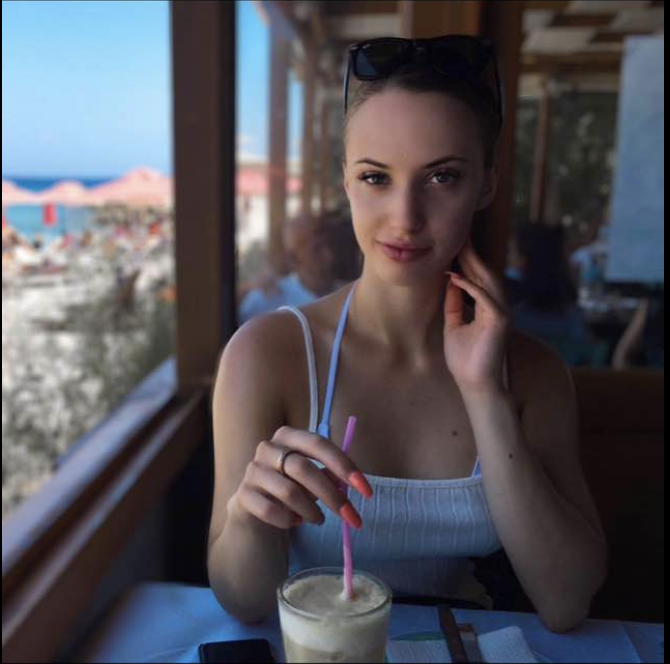
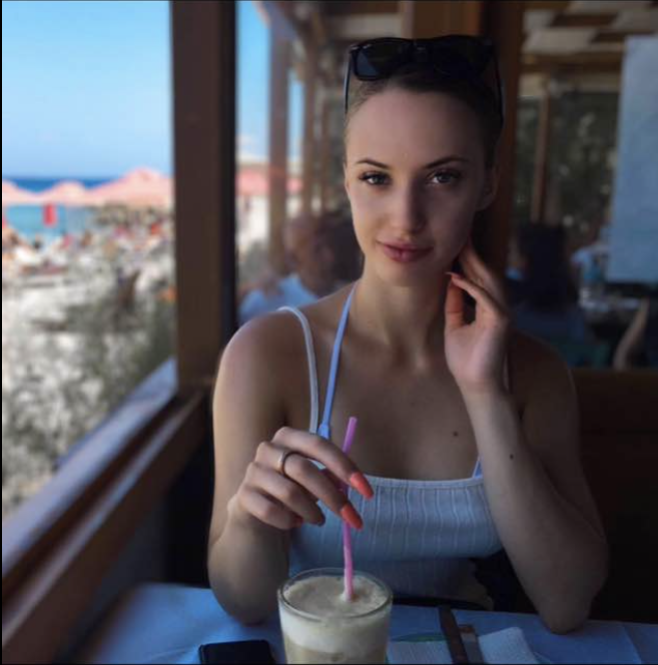
Final changes for dark theme

diff --git a/themes/kmom04/css/style-dark.min.css b/themes/kmom04/css/style-dark.min.css
@@ -10,4 +10,4 @@
  */@font-face{font-family:"Font Awesome 5 Free";font-style:normal;font-weight:900;font-display:block;src:url("../../shared/fontawesome/webfonts/fa-solid-900.eot");src:url("../../shared/fontawesome/webfonts/fa-solid-900.eot?#iefix") format("embedded-opentype"),url("../../shared/fontawesome/webfonts/fa-solid-900.woff2") format("woff2"),url("../../shared/fontawesome/webfonts/fa-solid-900.woff") format("woff"),url("../../shared/fontawesome/webfonts/fa-solid-900.ttf") format("truetype"),url("../../shared/fontawesome/webfonts/fa-solid-900.svg#fontawesome") format("svg")}.fa,.fas{font-family:"Font Awesome 5 Free";font-weight:900}/*!
  * Font Awesome Free 5.15.4 by @fontawesome - https://fontawesome.com
  * License - https://fontawesome.com/license/free (Icons: CC BY 4.0, Fonts: SIL OFL 1.1, Code: MIT License)
- */@font-face{font-family:"Font Awesome 5 Free";font-style:normal;font-weight:400;font-display:block;src:url("../../shared/fontawesome/webfonts/fa-regular-400.eot");src:url("../../shared/fontawesome/webfonts/fa-regular-400.eot?#iefix") format("embedded-opentype"),url("../../shared/fontawesome/webfonts/fa-regular-400.woff2") format("woff2"),url("../../shared/fontawesome/webfonts/fa-regular-400.woff") format("woff"),url("../../shared/fontawesome/webfonts/fa-regular-400.ttf") format("truetype"),url("../../shared/fontawesome/webfonts/fa-regular-400.svg#fontawesome") format("svg")}.far{font-family:"Font Awesome 5 Free";font-weight:400}/*! normalize.css v8.0.1 | MIT License | github.com/necolas/normalize.css */html{line-height:1.15;-webkit-text-size-adjust:100%}body{margin:0}main{display:block}h1{font-size:2em;margin:.67em 0}hr{box-sizing:content-box;height:0;overflow:visible}pre{font-family:monospace,monospace;font-size:1em}a{background-color:transparent}abbr[title]{border-bottom:none;text-decoration:underline;text-decoration:underline dotted}b,strong{font-weight:bolder}code,kbd,samp{font-family:monospace,monospace;font-size:1em}small{font-size:80%}sub,sup{font-size:75%;line-height:0;position:relative;vertical-align:baseline}sub{bottom:-0.25em}sup{top:-0.5em}img{border-style:none}button,input,optgroup,select,textarea{font-family:inherit;font-size:100%;line-height:1.15;margin:0}button,input{overflow:visible}button,select{text-transform:none}button,[type=button],[type=reset],[type=submit]{-webkit-appearance:button}button::-moz-focus-inner,[type=button]::-moz-focus-inner,[type=reset]::-moz-focus-inner,[type=submit]::-moz-focus-inner{border-style:none;padding:0}button:-moz-focusring,[type=button]:-moz-focusring,[type=reset]:-moz-focusring,[type=submit]:-moz-focusring{outline:1px dotted ButtonText}fieldset{padding:.35em .75em .625em}legend{box-sizing:border-box;color:inherit;display:table;max-width:100%;padding:0;white-space:normal}progress{vertical-align:baseline}textarea{overflow:auto}[type=checkbox],[type=radio]{box-sizing:border-box;padding:0}[type=number]::-webkit-inner-spin-button,[type=number]::-webkit-outer-spin-button{height:auto}[type=search]{-webkit-appearance:textfield;outline-offset:-2px}[type=search]::-webkit-search-decoration{-webkit-appearance:none}::-webkit-file-upload-button{-webkit-appearance:button;font:inherit}details{display:block}summary{display:list-item}template{display:none}[hidden]{display:none}body{line-height:1.4em;font-family:"Noto Sans",sans-serif;font-weight:normal}p{font-weight:normal;color:#fff;font-size:1.4em;font-family:"Noto Sans",sans-serif;line-height:1.4;margin-bottom:1.96rem;letter-spacing:1px}html,body{height:100%;font-size:100%}body{background-color:#333;display:flex;flex-direction:column}.main{background-color:#333;flex:1 0 auto;width:64em;margin:1.96rem auto}.footer{display:flex;flex-direction:row;padding:2rem;justify-content:space-between;align-items:center;background-color:#2a2a2a;color:#c9c7c7}.social a{text-decoration:none;font-size:3rem;color:#c9c7c7}.footer p{color:#c9c7c7}.header{display:flex;flex-direction:row;padding:2rem;justify-content:space-between;align-items:center;background-color:#dcb685}.site-header{display:flex;flex-direction:row;justify-content:space-between;align-items:center}.title a{text-decoration:none}.title h1{color:rgba(146,100,67,.8039215686)}img{max-width:100%;display:block}.profilbild{border-radius:50%;width:300px;max-width:100%;height:300px;max-height:100%;display:block}blockquote{font-style:italic;margin-left:1em;padding-left:1em;border-left:.5em solid #f5f5f5}code{margin:0 .1em;padding:.1em .2em;border:1px solid #ccc;border-radius:.3em;background:#f5f5f5;font-family:monospace;font-size:.85rem;line-height:1.9824}pre{padding:0 1em;border:1px solid #ccc;border-radius:.3em;background:#f5f5f5}pre code{display:block;margin:0;padding:1.1111em 0;border:0 none;background:rgba(0,0,0,0);overflow-x:auto;line-height:1.4}.landing-page{display:grid;gap:1.96rem 1.96rem;margin-bottom:1.96rem}.landing-page h1{grid-column:span 3;justify-self:center}.landing-page a{text-decoration:none;color:#fff}.tech-box{grid-column:span 1;display:flex;flex-direction:column;align-items:center;border:1px solid #ccc;padding:1.96rem}.tech-box.big{grid-column:span 3}.tech-box:hover{box-shadow:10px 10px 5px 0 rgba(0,0,0,.2)}.technology{display:flex;flex-direction:row;justify-content:center;align-items:start}.technology .article{width:60%}.technology .menu{width:30%}
+ */@font-face{font-family:"Font Awesome 5 Free";font-style:normal;font-weight:400;font-display:block;src:url("../../shared/fontawesome/webfonts/fa-regular-400.eot");src:url("../../shared/fontawesome/webfonts/fa-regular-400.eot?#iefix") format("embedded-opentype"),url("../../shared/fontawesome/webfonts/fa-regular-400.woff2") format("woff2"),url("../../shared/fontawesome/webfonts/fa-regular-400.woff") format("woff"),url("../../shared/fontawesome/webfonts/fa-regular-400.ttf") format("truetype"),url("../../shared/fontawesome/webfonts/fa-regular-400.svg#fontawesome") format("svg")}.far{font-family:"Font Awesome 5 Free";font-weight:400}/*! normalize.css v8.0.1 | MIT License | github.com/necolas/normalize.css */html{line-height:1.15;-webkit-text-size-adjust:100%}body{margin:0}main{display:block}h1{font-size:2em;margin:.67em 0}hr{box-sizing:content-box;height:0;overflow:visible}pre{font-family:monospace,monospace;font-size:1em}a{background-color:transparent}abbr[title]{border-bottom:none;text-decoration:underline;text-decoration:underline dotted}b,strong{font-weight:bolder}code,kbd,samp{font-family:monospace,monospace;font-size:1em}small{font-size:80%}sub,sup{font-size:75%;line-height:0;position:relative;vertical-align:baseline}sub{bottom:-0.25em}sup{top:-0.5em}img{border-style:none}button,input,optgroup,select,textarea{font-family:inherit;font-size:100%;line-height:1.15;margin:0}button,input{overflow:visible}button,select{text-transform:none}button,[type=button],[type=reset],[type=submit]{-webkit-appearance:button}button::-moz-focus-inner,[type=button]::-moz-focus-inner,[type=reset]::-moz-focus-inner,[type=submit]::-moz-focus-inner{border-style:none;padding:0}button:-moz-focusring,[type=button]:-moz-focusring,[type=reset]:-moz-focusring,[type=submit]:-moz-focusring{outline:1px dotted ButtonText}fieldset{padding:.35em .75em .625em}legend{box-sizing:border-box;color:inherit;display:table;max-width:100%;padding:0;white-space:normal}progress{vertical-align:baseline}textarea{overflow:auto}[type=checkbox],[type=radio]{box-sizing:border-box;padding:0}[type=number]::-webkit-inner-spin-button,[type=number]::-webkit-outer-spin-button{height:auto}[type=search]{-webkit-appearance:textfield;outline-offset:-2px}[type=search]::-webkit-search-decoration{-webkit-appearance:none}::-webkit-file-upload-button{-webkit-appearance:button;font:inherit}details{display:block}summary{display:list-item}template{display:none}[hidden]{display:none}body{line-height:1.4em;font-family:"Noto Sans",sans-serif;font-weight:normal}p{font-weight:normal;color:#f8f8ff;font-size:1.4em;font-family:"Noto Sans",sans-serif;line-height:1.4;margin-bottom:1.96rem;letter-spacing:1px}h2,h3{color:#f8f8ff;font-style:italic}html,body{height:100%;font-size:100%}body{background-color:#272727;display:flex;flex-direction:column}.main{background-color:#272727;flex:1 0 auto;width:64em;margin:1.96rem auto}.footer{display:flex;flex-direction:row;padding:2rem;justify-content:space-between;align-items:center;background-color:#2a2a2a;color:#caa78d}.social a{text-decoration:none;font-size:3rem;color:#caa78d}.footer p{color:#caa78d}.header{display:flex;flex-direction:row;padding:2rem;justify-content:space-between;align-items:center;background-color:#333}.site-header{display:flex;flex-direction:row;justify-content:space-between;align-items:center}.title a{text-decoration:none}.title h1{color:rgba(146,100,67,.8039215686)}h1{color:#f8f8ff}.nav a{text-decoration:none;font-size:22px;color:#f8f8ff}.nav a:hover{text-decoration:none;color:#caa78d}img{max-width:100%;display:block;filter:grayscale(60%) contrast(1.2)}.profilbild{border-radius:50%;width:300px;max-width:100%;height:300px;max-height:100%;display:block;filter:grayscale(50%) contrast(1.2)}blockquote{font-style:italic;margin-left:1em;padding-left:1em;border-left:.5em solid #f5f5f5}code{margin:0 .1em;padding:.1em .2em;border:1px solid #ccc;border-radius:.3em;background:#f5f5f5;font-family:monospace;font-size:.85rem;line-height:1.9824}pre{padding:0 1em;border:1px solid #ccc;border-radius:.3em;background:#f5f5f5}pre code{display:block;margin:0;padding:1.1111em 0;border:0 none;background:rgba(0,0,0,0);overflow-x:auto;line-height:1.4}.landing-page{display:grid;gap:1.96rem 1.96rem;margin-bottom:1.96rem}.landing-page h1{grid-column:span 3;justify-self:center}.landing-page a{text-decoration:none;color:#f8f8ff}.tech-box{grid-column:span 1;display:flex;flex-direction:column;align-items:center;border:1px solid #ccc;padding:1.96rem}.tech-box.big{grid-column:span 3}.tech-box:hover{box-shadow:10px 10px 5px 0 rgba(0,0,0,.2)}.technology{display:flex;flex-direction:row;justify-content:center;align-items:start}.technology .article{width:60%}.technology .menu{width:30%}.menu a{text-decoration:none;color:#f8f8ff}.menu a:hover{color:#caa78d}

diff --git a/themes/kmom04/css/style.min.css b/themes/kmom04/css/style.min.css
@@ -10,4 +10,4 @@
  */@font-face{font-family:"Font Awesome 5 Free";font-style:normal;font-weight:900;font-display:block;src:url("../../shared/fontawesome/webfonts/fa-solid-900.eot");src:url("../../shared/fontawesome/webfonts/fa-solid-900.eot?#iefix") format("embedded-opentype"),url("../../shared/fontawesome/webfonts/fa-solid-900.woff2") format("woff2"),url("../../shared/fontawesome/webfonts/fa-solid-900.woff") format("woff"),url("../../shared/fontawesome/webfonts/fa-solid-900.ttf") format("truetype"),url("../../shared/fontawesome/webfonts/fa-solid-900.svg#fontawesome") format("svg")}.fa,.fas{font-family:"Font Awesome 5 Free";font-weight:900}/*!
  * Font Awesome Free 5.15.4 by @fontawesome - https://fontawesome.com
  * License - https://fontawesome.com/license/free (Icons: CC BY 4.0, Fonts: SIL OFL 1.1, Code: MIT License)
- */@font-face{font-family:"Font Awesome 5 Free";font-style:normal;font-weight:400;font-display:block;src:url("../../shared/fontawesome/webfonts/fa-regular-400.eot");src:url("../../shared/fontawesome/webfonts/fa-regular-400.eot?#iefix") format("embedded-opentype"),url("../../shared/fontawesome/webfonts/fa-regular-400.woff2") format("woff2"),url("../../shared/fontawesome/webfonts/fa-regular-400.woff") format("woff"),url("../../shared/fontawesome/webfonts/fa-regular-400.ttf") format("truetype"),url("../../shared/fontawesome/webfonts/fa-regular-400.svg#fontawesome") format("svg")}.far{font-family:"Font Awesome 5 Free";font-weight:400}/*! normalize.css v8.0.1 | MIT License | github.com/necolas/normalize.css */html{line-height:1.15;-webkit-text-size-adjust:100%}body{margin:0}main{display:block}h1{font-size:2em;margin:.67em 0}hr{box-sizing:content-box;height:0;overflow:visible}pre{font-family:monospace,monospace;font-size:1em}a{background-color:transparent}abbr[title]{border-bottom:none;text-decoration:underline;text-decoration:underline dotted}b,strong{font-weight:bolder}code,kbd,samp{font-family:monospace,monospace;font-size:1em}small{font-size:80%}sub,sup{font-size:75%;line-height:0;position:relative;vertical-align:baseline}sub{bottom:-0.25em}sup{top:-0.5em}img{border-style:none}button,input,optgroup,select,textarea{font-family:inherit;font-size:100%;line-height:1.15;margin:0}button,input{overflow:visible}button,select{text-transform:none}button,[type=button],[type=reset],[type=submit]{-webkit-appearance:button}button::-moz-focus-inner,[type=button]::-moz-focus-inner,[type=reset]::-moz-focus-inner,[type=submit]::-moz-focus-inner{border-style:none;padding:0}button:-moz-focusring,[type=button]:-moz-focusring,[type=reset]:-moz-focusring,[type=submit]:-moz-focusring{outline:1px dotted ButtonText}fieldset{padding:.35em .75em .625em}legend{box-sizing:border-box;color:inherit;display:table;max-width:100%;padding:0;white-space:normal}progress{vertical-align:baseline}textarea{overflow:auto}[type=checkbox],[type=radio]{box-sizing:border-box;padding:0}[type=number]::-webkit-inner-spin-button,[type=number]::-webkit-outer-spin-button{height:auto}[type=search]{-webkit-appearance:textfield;outline-offset:-2px}[type=search]::-webkit-search-decoration{-webkit-appearance:none}::-webkit-file-upload-button{-webkit-appearance:button;font:inherit}details{display:block}summary{display:list-item}template{display:none}[hidden]{display:none}body{line-height:1.4em;font-family:"Noto Sans",sans-serif;font-weight:normal}p{font-weight:normal;color:#333;font-size:1.4em;font-family:"Noto Sans",sans-serif;line-height:1.4;margin-bottom:1.96rem;letter-spacing:1px}html,body{height:100%;font-size:100%}body{background-color:#fff;display:flex;flex-direction:column}.main{background-color:#fff;flex:1 0 auto;width:64em;margin:1.96rem auto}.footer{display:flex;flex-direction:row;padding:2rem;justify-content:space-between;align-items:center;background-color:#2a2a2a;color:#c9c7c7}.social a{text-decoration:none;font-size:3rem;color:#c9c7c7}.footer p{color:#c9c7c7}.header{display:flex;flex-direction:row;padding:2rem;justify-content:space-between;align-items:center;background-color:#dcb685}.site-header{display:flex;flex-direction:row;justify-content:space-between;align-items:center}.title a{text-decoration:none}.title h1{color:#7a4f38}img{max-width:100%;display:block}.profilbild{border-radius:50%;width:300px;max-width:100%;height:300px;max-height:100%;display:block}blockquote{font-style:italic;margin-left:1em;padding-left:1em;border-left:.5em solid #f5f5f5}code{margin:0 .1em;padding:.1em .2em;border:1px solid #ccc;border-radius:.3em;background:#f5f5f5;font-family:monospace;font-size:.85rem;line-height:1.9824}pre{padding:0 1em;border:1px solid #ccc;border-radius:.3em;background:#f5f5f5}pre code{display:block;margin:0;padding:1.1111em 0;border:0 none;background:rgba(0,0,0,0);overflow-x:auto;line-height:1.4}.landing-page{display:grid;gap:1.96rem 1.96rem;margin-bottom:1.96rem}.landing-page h1{grid-column:span 3;justify-self:center}.landing-page a{text-decoration:none;color:#333}.tech-box{grid-column:span 1;display:flex;flex-direction:column;align-items:center;border:1px solid #ccc;padding:1.96rem}.tech-box.big{grid-column:span 3}.tech-box:hover{box-shadow:10px 10px 5px 0 rgba(0,0,0,.2)}.technology{display:flex;flex-direction:row;justify-content:center;align-items:start}.technology .article{width:60%}.technology .menu{width:30%}
+ */@font-face{font-family:"Font Awesome 5 Free";font-style:normal;font-weight:400;font-display:block;src:url("../../shared/fontawesome/webfonts/fa-regular-400.eot");src:url("../../shared/fontawesome/webfonts/fa-regular-400.eot?#iefix") format("embedded-opentype"),url("../../shared/fontawesome/webfonts/fa-regular-400.woff2") format("woff2"),url("../../shared/fontawesome/webfonts/fa-regular-400.woff") format("woff"),url("../../shared/fontawesome/webfonts/fa-regular-400.ttf") format("truetype"),url("../../shared/fontawesome/webfonts/fa-regular-400.svg#fontawesome") format("svg")}.far{font-family:"Font Awesome 5 Free";font-weight:400}/*! normalize.css v8.0.1 | MIT License | github.com/necolas/normalize.css */html{line-height:1.15;-webkit-text-size-adjust:100%}body{margin:0}main{display:block}h1{font-size:2em;margin:.67em 0}hr{box-sizing:content-box;height:0;overflow:visible}pre{font-family:monospace,monospace;font-size:1em}a{background-color:transparent}abbr[title]{border-bottom:none;text-decoration:underline;text-decoration:underline dotted}b,strong{font-weight:bolder}code,kbd,samp{font-family:monospace,monospace;font-size:1em}small{font-size:80%}sub,sup{font-size:75%;line-height:0;position:relative;vertical-align:baseline}sub{bottom:-0.25em}sup{top:-0.5em}img{border-style:none}button,input,optgroup,select,textarea{font-family:inherit;font-size:100%;line-height:1.15;margin:0}button,input{overflow:visible}button,select{text-transform:none}button,[type=button],[type=reset],[type=submit]{-webkit-appearance:button}button::-moz-focus-inner,[type=button]::-moz-focus-inner,[type=reset]::-moz-focus-inner,[type=submit]::-moz-focus-inner{border-style:none;padding:0}button:-moz-focusring,[type=button]:-moz-focusring,[type=reset]:-moz-focusring,[type=submit]:-moz-focusring{outline:1px dotted ButtonText}fieldset{padding:.35em .75em .625em}legend{box-sizing:border-box;color:inherit;display:table;max-width:100%;padding:0;white-space:normal}progress{vertical-align:baseline}textarea{overflow:auto}[type=checkbox],[type=radio]{box-sizing:border-box;padding:0}[type=number]::-webkit-inner-spin-button,[type=number]::-webkit-outer-spin-button{height:auto}[type=search]{-webkit-appearance:textfield;outline-offset:-2px}[type=search]::-webkit-search-decoration{-webkit-appearance:none}::-webkit-file-upload-button{-webkit-appearance:button;font:inherit}details{display:block}summary{display:list-item}template{display:none}[hidden]{display:none}body{line-height:1.4em;font-family:"Noto Sans",sans-serif;font-weight:normal}p{font-weight:normal;color:#333;font-size:1.4em;font-family:"Noto Sans",sans-serif;line-height:1.4;margin-bottom:1.96rem;letter-spacing:1px}h2,h3{color:#333;font-style:italic}html,body{height:100%;font-size:100%}body{background-color:#fff;display:flex;flex-direction:column}.main{background-color:#fff;flex:1 0 auto;width:64em;margin:1.96rem auto}.footer{display:flex;flex-direction:row;padding:2rem;justify-content:space-between;align-items:center;background-color:#7e5b41;color:#c9c7c7}.social a{text-decoration:none;font-size:3rem;color:#c9c7c7}.footer p{color:#c9c7c7}.header{display:flex;flex-direction:row;padding:2rem;justify-content:space-between;align-items:center;background-color:#caa78d}.site-header{display:flex;flex-direction:row;justify-content:space-between;align-items:center}.title a{text-decoration:none}.title h1{color:#6e4323}h1{color:#333}.nav a{text-decoration:none;font-size:22px;color:#333}.nav a:hover{text-decoration:none;color:#c9c7c7}img{max-width:100%;display:block}.profilbild{border-radius:50%;width:300px;max-width:100%;height:300px;max-height:100%;display:block}blockquote{font-style:italic;margin-left:1em;padding-left:1em;border-left:.5em solid #f5f5f5}code{margin:0 .1em;padding:.1em .2em;border:1px solid #ccc;border-radius:.3em;background:#f5f5f5;font-family:monospace;font-size:.85rem;line-height:1.9824}pre{padding:0 1em;border:1px solid #ccc;border-radius:.3em;background:#f5f5f5}pre code{display:block;margin:0;padding:1.1111em 0;border:0 none;background:rgba(0,0,0,0);overflow-x:auto;line-height:1.4}.landing-page{display:grid;gap:1.96rem 1.96rem;margin-bottom:1.96rem}.landing-page h1{grid-column:span 3;justify-self:center}.landing-page a{text-decoration:none;color:#333}.tech-box{grid-column:span 1;display:flex;flex-direction:column;align-items:center;border:1px solid #ccc;padding:1.96rem}.tech-box.big{grid-column:span 3}.tech-box:hover{box-shadow:10px 10px 5px 0 rgba(0,0,0,.2)}.technology{display:flex;flex-direction:row;justify-content:center;align-items:start}.technology .article{width:60%}.technology .menu{width:30%}.menu a{text-decoration:none;color:#333}.menu a:hover{color:#c9c7c7}

diff --git a/themes/kmom04/scss/header.scss b/themes/kmom04/scss/header.scss
@@ -4,7 +4,7 @@
   padding: 2rem;
   justify-content: space-between;
   align-items: center;
-  background-color: rgb(220, 182, 133);
+  background-color: $header-color;
 }
 
 .site-header {
@@ -22,4 +22,19 @@
   h1 {
     color: $header-title-color;
   }
+}
+
+h1 {
+  color: $font-color;
+}
+
+.nav a {
+  text-decoration: none;
+  font-size: 22px;
+  color: $font-color;
+}
+
+.nav a:hover {
+  text-decoration: none;
+  color: $font-alternative-color;
 }

diff --git a/themes/kmom04/scss/variables-dark.scss b/themes/kmom04/scss/variables-dark.scss
@@ -1,10 +1,11 @@
-$main-background-color: #333;
+$main-background-color: #272727;
 $font-color: #f8f8ff;
-$font-alternative-color: #c9c7c7;
+$font-alternative-color: #caa78d;
 $accent-color: #333;
 $background-color: #272727;
 $background-alternative-color: #e0fbfc;
 $footer-color: #2a2a2a;
 $header-title-color: #926443cd;
+$header-color: #333;
 
 $magic-number: 1.96rem;

diff --git a/themes/kmom04/scss/variables.scss b/themes/kmom04/scss/variables.scss
@@ -4,7 +4,9 @@ $font-alternative-color: #c9c7c7;
 $accent-color: #937e73;
 $background-color: #fff;
 $background-alternative-color: #e0fbfc;
-$footer-color: #2a2a2a;
-$header-title-color: #7A4F38;
+$footer-color: #7e5b41;
+$header-title-color: #6e4323;
+$header-color: #caa78d;
+
 
 $magic-number: 1.96rem;

diff --git a/themes/kmom04/scss/images-dark.scss b/themes/kmom04/scss/images-dark.scss
@@ -1,0 +1,15 @@
+img {
+  max-width: 100%;
+  display: block;
+  filter: grayscale(60%) contrast(1.2);
+}
+
+.profilbild {
+  border-radius: 50%;
+  width: 300px;
+  max-width: 100%;
+  height: 300px;
+  max-height: 100%;
+  display: block;
+  filter: grayscale(50%) contrast(1.2);
+}

diff --git a/themes/kmom02/scss/variables-dark.scss b/themes/kmom02/scss/variables-dark.scss
@@ -2,7 +2,7 @@ $main-background-color: #333;
 $font-color: #fff;
 $font-alternative-color: #c9c7c7;
 $accent-color: #ee6c4d;
-$background-color: pink;
+$background-color: #272727;
 $background-alternative-color: #e0fbfc;
 $footer-color: #2a2a2a;
 $header-title-color: #926443cd;

diff --git a/themes/kmom02/scss/variables.scss b/themes/kmom02/scss/variables.scss
@@ -5,6 +5,6 @@ $accent-color: #937e73;
 $background-color: #fff;
 $background-alternative-color: #e0fbfc;
 $footer-color: #2a2a2a;
-$header-title-color: #7A4F38;
+$header-title-color: #7a4f38;
 
 $magic-number: 1.96rem;

diff --git a/themes/kmom04/scss/style-dark.scss b/themes/kmom04/scss/style-dark.scss
@@ -14,7 +14,7 @@ $fa-font-path: '../../shared/fontawesome/webfonts';
 @import 'container';
 @import 'footer';
 @import 'header';
-@import 'images';
+@import 'images-dark';
 
 @import 'blockquotes';
 @import 'code';

diff --git a/themes/kmom04/scss/technology.scss b/themes/kmom04/scss/technology.scss
@@ -45,3 +45,12 @@
 .technology .menu {
   width: 30%;
 }
+
+.menu a {
+  text-decoration: none;
+  color: $font-color;
+}
+
+.menu a:hover {
+  color: $font-alternative-color;
+}

diff --git a/themes/kmom04/scss/typography.scss b/themes/kmom04/scss/typography.scss
@@ -13,3 +13,9 @@ p {
   margin-bottom: 1.96rem;
   letter-spacing: 1px;
 }
+
+h2,
+h3 {
+  color: $font-color;
+  font-style: italic;
+}

diff --git a/themes/kmom04/css/mobile-menu.css b/themes/kmom04/css/mobile-menu.css
@@ -15,7 +15,7 @@
 }
 
 .nav a, .nav-toggle {
-    color: #333;
+    color: #f8f8ff;
 }
 
 .nav-toggle {
